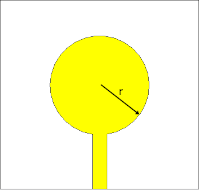
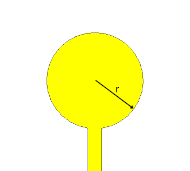
update ui

diff --git a/app_design.py b/app_design.py
@@ -1,6 +1,6 @@
 # -*- coding: utf-8 -*-
 
-# Form implementation generated from reading ui file 'app-design.ui'
+# Form implementation generated from reading ui file 'app_design.ui'
 #
 # Created by: PyQt5 UI code generator 5.15.4
 #
@@ -14,7 +14,7 @@ from PyQt5 import QtCore, QtGui, QtWidgets
 class Ui_Dialog(object):
     def setupUi(self, Dialog):
         Dialog.setObjectName("Dialog")
-        Dialog.resize(462, 352)
+        Dialog.resize(462, 353)
         self.dielectricConstant = QtWidgets.QLineEdit(Dialog)
         self.dielectricConstant.setGeometry(QtCore.QRect(40, 50, 113, 20))
         self.dielectricConstant.setObjectName("dielectricConstant")
@@ -102,16 +102,8 @@ class Ui_Dialog(object):
         self.label_8 = QtWidgets.QLabel(Dialog)
         self.label_8.setGeometry(QtCore.QRect(270, 310, 61, 16))
         self.label_8.setObjectName("label_8")
-        self.imageCircular = QtWidgets.QLabel(Dialog)
-        self.imageCircular.setEnabled(True)
-        self.imageCircular.setGeometry(QtCore.QRect(260, 10, 191, 191))
-        self.imageCircular.setFrameShape(QtWidgets.QFrame.StyledPanel)
-        self.imageCircular.setFrameShadow(QtWidgets.QFrame.Plain)
-        self.imageCircular.setText("")
-        self.imageCircular.setPixmap(QtGui.QPixmap("assets/circular.PNG"))
-        self.imageCircular.setObjectName("imageCircular")
         self.imageRectangular = QtWidgets.QLabel(Dialog)
-        self.imageRectangular.setGeometry(QtCore.QRect(260, 10, 190, 190))
+        self.imageRectangular.setGeometry(QtCore.QRect(260, 20, 191, 171))
         self.imageRectangular.setText("")
         self.imageRectangular.setPixmap(QtGui.QPixmap("assets/rectangular.png"))
         self.imageRectangular.setObjectName("imageRectangular")
@@ -121,13 +113,18 @@ class Ui_Dialog(object):
         self.comboFreq = QtWidgets.QComboBox(Dialog)
         self.comboFreq.setGeometry(QtCore.QRect(150, 160, 41, 22))
         self.comboFreq.setObjectName("comboFreq")
+        self.imageCircular = QtWidgets.QLabel(Dialog)
+        self.imageCircular.setGeometry(QtCore.QRect(260, 20, 191, 171))
+        self.imageCircular.setText("")
+        self.imageCircular.setPixmap(QtGui.QPixmap("assets/circular.PNG"))
+        self.imageCircular.setObjectName("imageCircular")
 
         self.retranslateUi(Dialog)
         QtCore.QMetaObject.connectSlotsByName(Dialog)
 
     def retranslateUi(self, Dialog):
         _translate = QtCore.QCoreApplication.translate
-        Dialog.setWindowTitle(_translate("Dialog", "Dialog"))
+        Dialog.setWindowTitle(_translate("Dialog", "Microstrip Antenna Calculator"))
         self.label.setText(_translate("Dialog", "Dielectric Constant"))
         self.label_2.setText(_translate("Dialog", "Dielectric Height "))
         self.label_3.setText(_translate("Dialog", "Resonant Frequency"))
